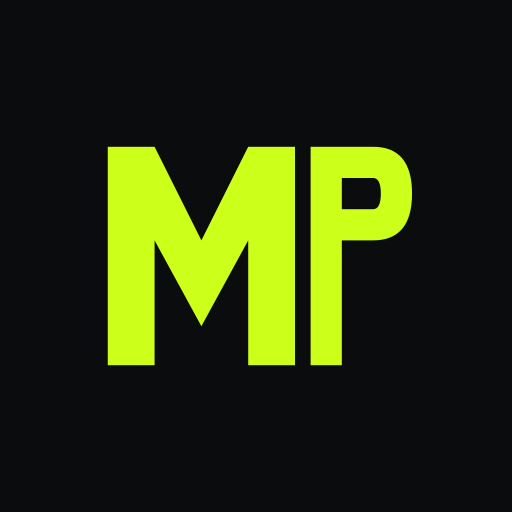
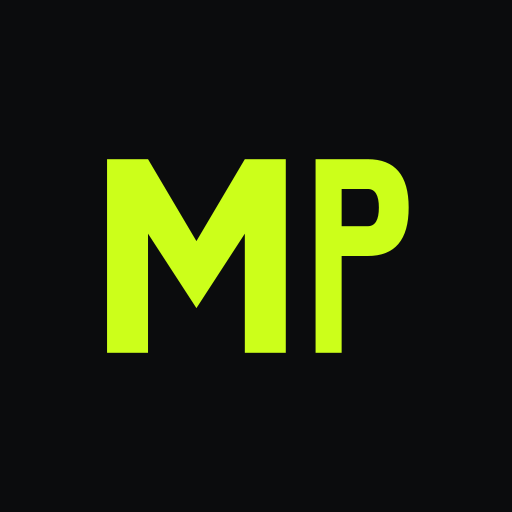
reconocer plataforma en contenido, icono redondeado

diff --git a/src/services/contentService.js b/src/services/contentService.js
@@ -1,6 +1,7 @@
 import { supabase, supabaseEnabled } from "../lib/supabaseClient.js";
 import { loadCollection, saveCollection } from "./store.js";
 import { CONTENT_ITEMS_SEED } from "../data/seedData.js";
+import { detectPlatform } from "../lib/detectPlatform.js";
 
 const KEY = "content";
 
@@ -13,10 +14,20 @@ export async function listContent() {
   return loadCollection(KEY, CONTENT_ITEMS_SEED);
 }
 
-// Captura rápida: solo título. El resto queda con valores por defecto,
-// tal como se validó en el prototipo — nada de formularios obligatorios.
-export async function addContentQuick(title, userId) {
-  const item = { title, platform: "Sin definir", stage: "IDEA", when_text: "Sin fecha", note: "" };
+// Captura rápida: si mencionas una plataforma (kick, youtube, tiktok,
+// instagram...) en cualquier parte de la frase, la reconoce sola —
+// "video de carreras kick" queda en Kick con título "video de carreras".
+// Si no menciona ninguna, el texto completo es el título y la
+// plataforma queda "Sin definir".
+export async function addContentQuick(text, userId) {
+  const detected = detectPlatform(text, "contenido");
+  const item = {
+    title: detected ? detected.title : text,
+    platform: detected ? detected.platform : "Sin definir",
+    stage: "IDEA",
+    when_text: "Sin fecha",
+    note: "",
+  };
   if (supabaseEnabled) {
     const { data, error } = await supabase.from("content").insert({ ...item, user_id: userId }).select().single();
     if (error) throw error;

diff --git a/src/lib/detectPlatform.js b/src/lib/detectPlatform.js
@@ -1,0 +1,25 @@
+// Detecta la plataforma mencionada en una frase natural y la separa del
+// texto, igual que "papas 5000" separa la descripción del monto en Plata.
+// "video de carreras kick" → { platform: "Kick", title: "video de carreras" }
+
+const KEYWORDS = [
+  { re: /\bshorts?\b/i, contenido: "Shorts", texto: "YouTube" },
+  { re: /\byoutube|yt\b/i, contenido: "YouTube", texto: "YouTube" },
+  { re: /\bkick\b/i, contenido: "Kick", texto: "Kick" },
+  { re: /\btiktok|tik\s*tok\b/i, contenido: "TikTok", texto: "TikTok" },
+  { re: /\binstagram|insta\b|\breels?\b|\big\b/i, contenido: "Reels", texto: "Instagram" },
+];
+
+// variant: "contenido" usa las claves exactas de PLATFORM_GRADIENT/ICON
+// (Kick/YouTube/Shorts/TikTok/Reels). "texto" usa nombres simples para
+// mostrar en Ideas (Kick/YouTube/TikTok/Instagram), que ahí es solo texto.
+export function detectPlatform(text, variant = "contenido") {
+  for (const k of KEYWORDS) {
+    const match = text.match(k.re);
+    if (match) {
+      const title = (text.slice(0, match.index) + text.slice(match.index + match[0].length)).replace(/\s+/g, " ").trim();
+      return { platform: k[variant], title: title || text.trim() };
+    }
+  }
+  return null;
+}

diff --git a/src/services/ideasService.js b/src/services/ideasService.js
@@ -1,6 +1,7 @@
 import { supabase, supabaseEnabled } from "../lib/supabaseClient.js";
 import { loadCollection, saveCollection } from "./store.js";
 import { IDEAS_SEED } from "../data/seedData.js";
+import { detectPlatform } from "../lib/detectPlatform.js";
 
 const KEY = "ideas";
 
@@ -13,8 +14,14 @@ export async function listIdeas() {
   return loadCollection(KEY, IDEAS_SEED);
 }
 
-export async function addIdeaQuick(title, userId) {
-  const item = { title, platform: "Sin definir", format: "Sin definir", potential: "Por evaluar" };
+export async function addIdeaQuick(text, userId) {
+  const detected = detectPlatform(text, "texto");
+  const item = {
+    title: detected ? detected.title : text,
+    platform: detected ? detected.platform : "Sin definir",
+    format: "Sin definir",
+    potential: "Por evaluar",
+  };
   if (supabaseEnabled) {
     const { data, error } = await supabase.from("ideas").insert({ ...item, user_id: userId }).select().single();
     if (error) throw error;

diff --git a/src/components/marks.jsx b/src/components/marks.jsx
@@ -54,13 +54,13 @@ export const PLATFORM_ICON = {
 
 export function MPMonogram({ size = 40, color = "#fff", opacity = 1 }) {
   return (
-    <svg width={size} height={size} viewBox="0 0 42 40" style={{ opacity }}>
-      <path d="M2 34V6h6l6 12 6-12h6v28h-6V18l-6 11-6-11v16z" fill={color} />
+    <svg width={size} height={size} viewBox="0 0 44 38" style={{ opacity }}>
+      <path d="M2 32V6h5.5l6.5 11 6.5-11h5.5v26h-5.5V16l-6.5 10-6.5-10v16z" fill={color} />
       <path
         fillRule="evenodd"
         fill={color}
-        d="M28 6L36 6Q41 6 41 12Q41 18 36 18L32 18L32 34L28 34Z
-           M32 10L32 14L36 14Q37 14 37 12Q37 10 36 10Z"
+        d="M30 6L37 6Q42.5 6 42.5 12.5Q42.5 19 37 19L33.5 19L33.5 32L30 32Z
+           M33.5 10L33.5 15L37 15Q38.5 15 38.5 12.5Q38.5 10 37 10Z"
       />
     </svg>
   );

diff --git a/src/pages/Contenido.jsx b/src/pages/Contenido.jsx
@@ -28,7 +28,7 @@ export default function Contenido() {
         <p className="text-sm mt-0.5" style={{ color: T.textDim }}>Qué está pasando con cada pieza, de idea a publicado.</p>
       </div>
 
-      <QuickAddRow onAdd={add} color={CAT.contenido} prefix="CONTENIDO://" placeholder="título de la pieza... o dilo en voz alta" caption="entra como idea — defines plataforma y estado después." />
+      <QuickAddRow onAdd={add} color={CAT.contenido} prefix="CONTENIDO://" placeholder="ej: video de carreras kick... o dilo en voz alta" caption="menciona la plataforma (kick, youtube, tiktok...) y la reconoce sola." />
 
       <div className="flex gap-2 overflow-x-auto pb-1">
         {platforms.map((p) => (
